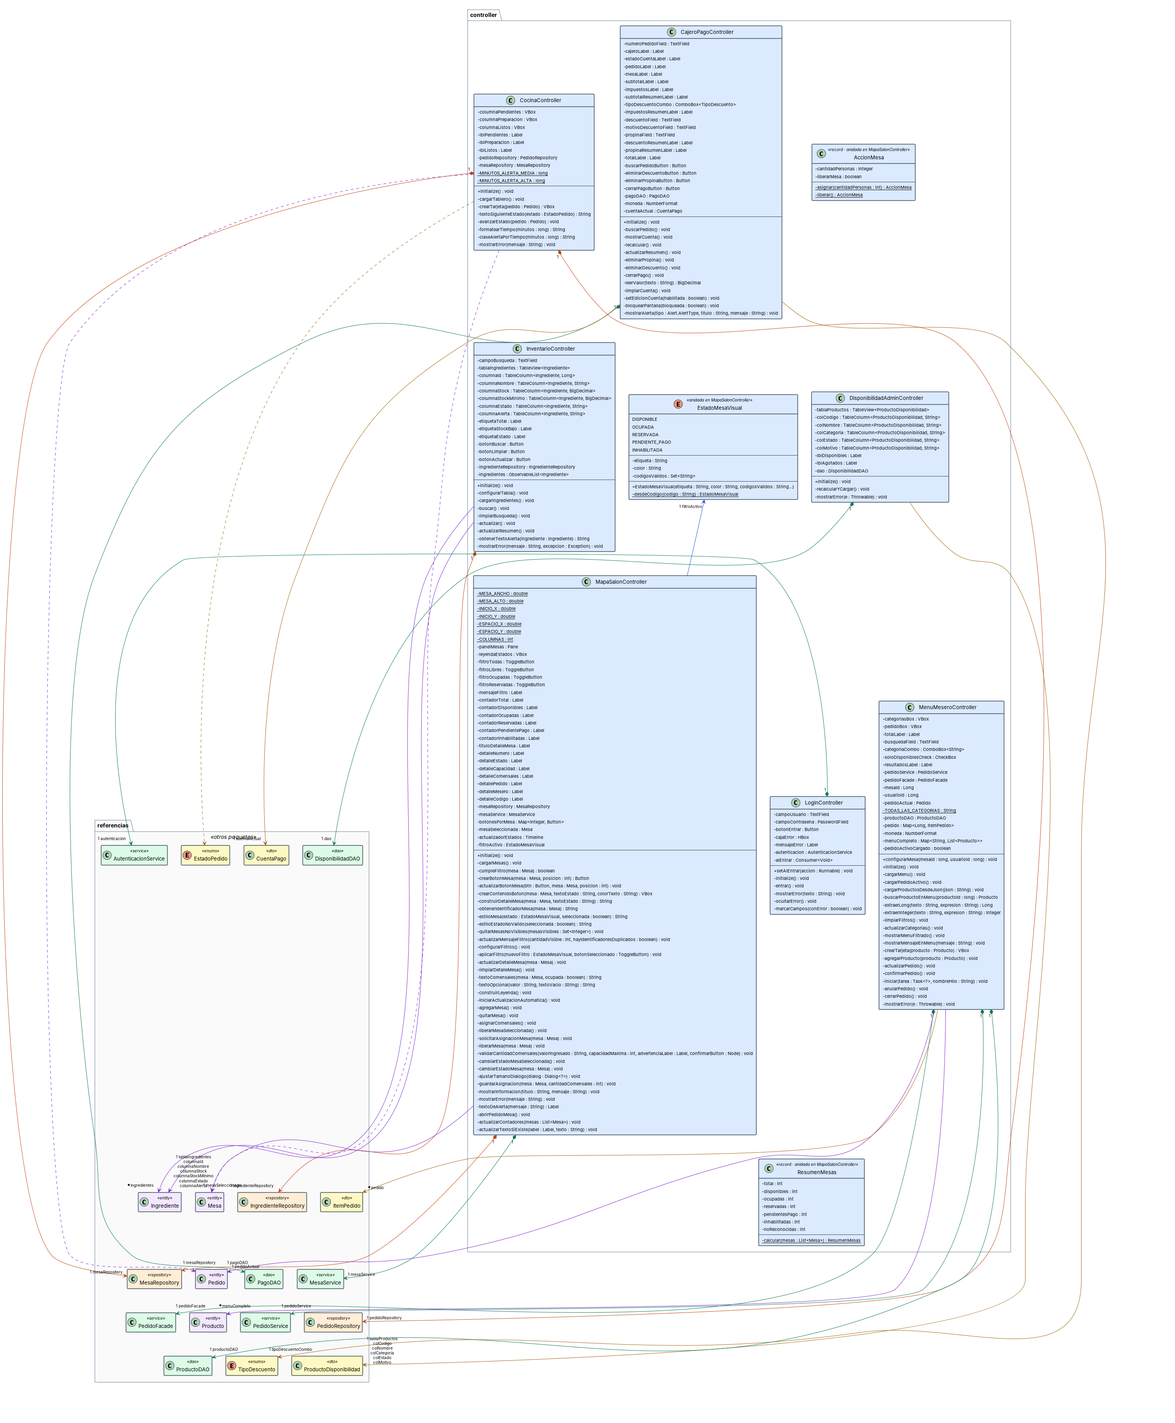
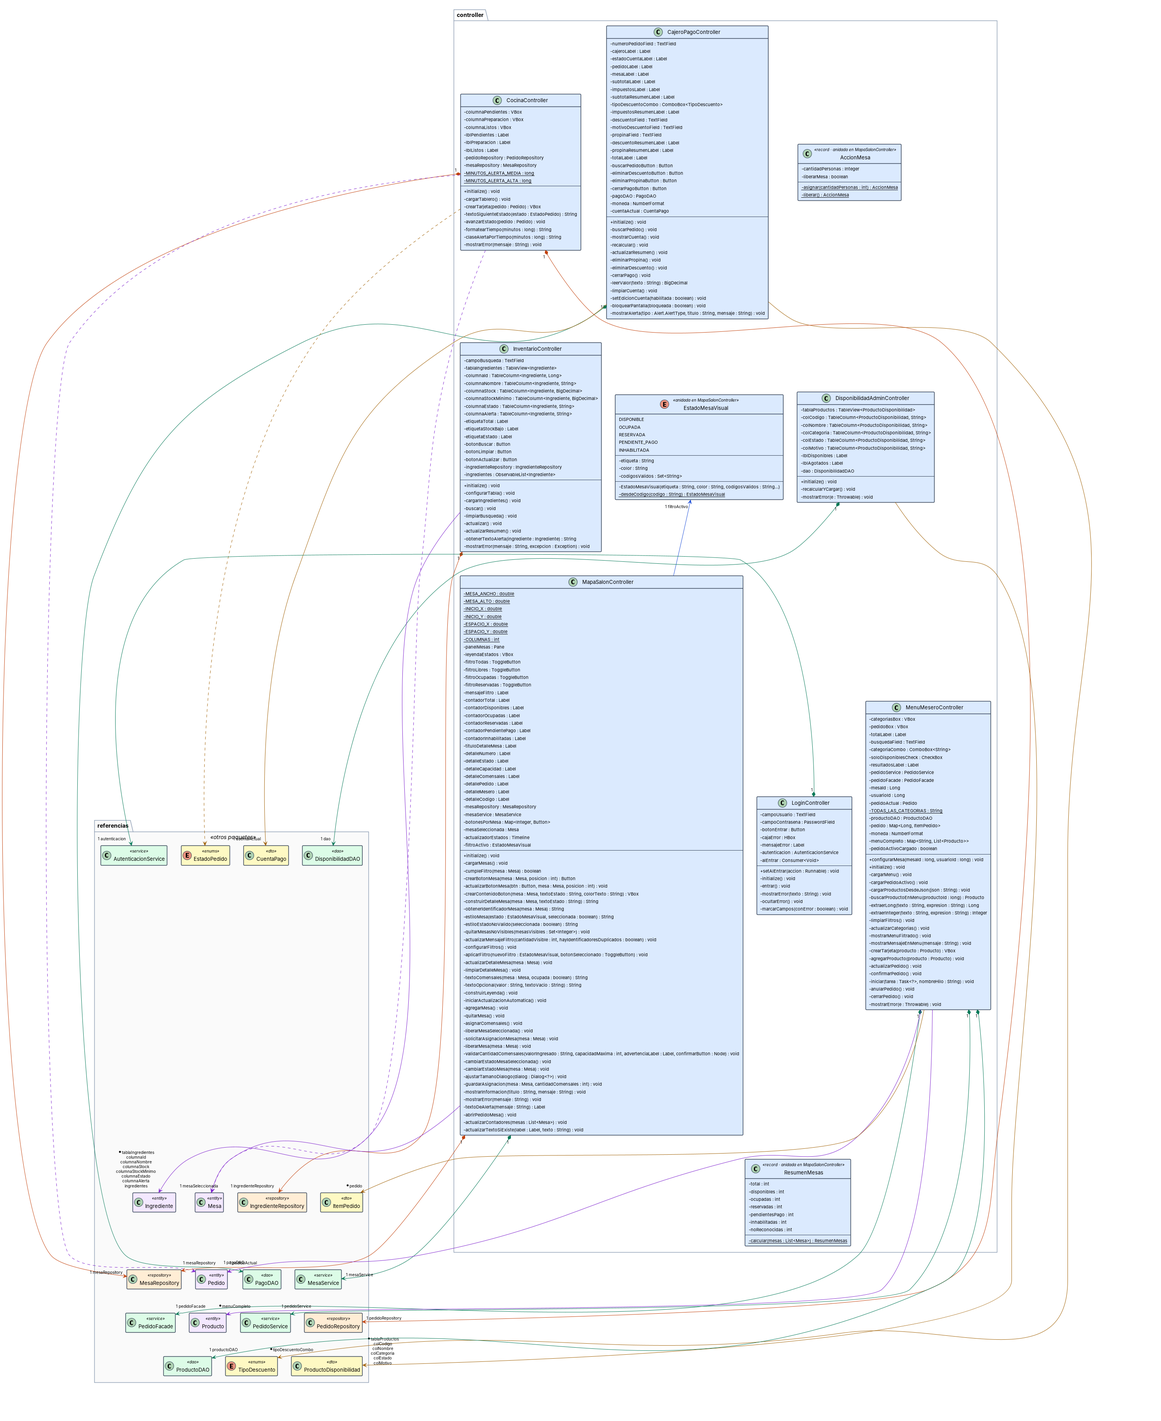
docs: corrige seis errores encontrados al revisar clases y componentes
Revision de los 15 diagramas de clases y los 8 de componentes contra el
codigo. Lo corregido, de mas a menos grave:

- Colision de nombre: existen entity.EstadoMesa y enums.EstadoMesa. Los
  generadores indexaban por nombre simple, asi que uno pisaba al otro: las
  flechas de EstadoMesaRepository y MesaService llegaban a la caja del enum
  cuando el codigo importa la entidad, y el enum quedaba dibujado sin
  ninguna linea en dos mapas. Ahora se resuelve por el import real.
- PagoDAO escribe en la tabla pedidos y se dibujaba como solo lectura. El
  extractor concatenaba las cadenas SQL y el "FOR UPDATE" de una consulta
  se comia el "UPDATE pedidos" de la siguiente. La tabla pedidos pasa de
  "escriben 1" a "escriben 2".
- DisponibilidadService y EntradaInventarioService ejecutan SQL propio
  saltandose la capa de datos, y no aparecian en el mapa componente-tabla
  porque solo se escaneaban repository y dao.
- La multiplicidad de los campos ComboBox<T>, TableView<T> y TableColumn<T,?>
  se dibujaba 1. Son contenedores: van *.
- El constructor de un enum sin modificador es privado (JLS 8.9.2), no
  package-private. Afecta a EstadoMesaVisual y TipoDescuento.
- El diagrama de artefactos contaba componentes y lo rotulaba ".java":
  controller tiene 8 archivos y uno esta vacio. Ademas el recuadro decia
  "src/main/java" dibujando solo los paquetes con componentes; ahora dice
  cuales deja fuera.

Los verificadores llevaban las mismas reglas equivocadas, asi que exigian el
[…]

diff --git a/docs/diagramas-fuente/herramientas/gen_componentes_puml.py b/docs/diagramas-fuente/herramientas/gen_componentes_puml.py
@@ -27,8 +27,10 @@ EXCL = {l.strip().rsplit('/', 1)[-1].replace('.java', '')
 PAQ_COMP = ('controller', 'service', 'dao', 'repository', 'ConexionBD',
             'session', 'util', '(raiz)')
 # Las capas son las mismas que en el diagrama de arquitectura. dao va en
-# acceso a datos, no en negocio: los tres DAO ejecutan SQL directamente y
-# ningun service lo hace.
+# acceso a datos, no en negocio: los tres DAO ejecutan SQL directamente.
+# Ojo: DisponibilidadService y EntradaInventarioService tambien ejecutan SQL
+# propio, saltandose la capa de datos. Siguen contando como negocio por su
+# paquete, pero aparecen en el mapa componente-tabla.
 # Mismas capas que el diagrama de arquitectura: ConexionBD es su propia
 # capa y session y util son apoyo transversal.
 SUB = {'controller': 'ui', '(raiz)': 'ui', 'service': 'negocio',
@@ -298,7 +300,7 @@ PROPIAS = sorted(t for t, v in quien.items() if len(v) == 1)
 L = [CAB]
 L.append('package "Acceso a datos · repository + dao" #FFEDD5 {')
 for n in sorted(COMPONENTES):
-    if POR[n]['paquete'] not in ('repository', 'dao'):
+    if POR[n]['paquete'] not in ('repository', 'dao', 'service'):
         continue
     d = sql.get(n, {})
     extra = []
@@ -311,7 +313,11 @@ for n in sorted(COMPONENTES):
     if not d:
         extra.append('sin SQL propio')
     L += [comp(n, extra)]
-nm = [n for n in sorted(COMPONENTES) if POR[n]['paquete'] in ('repository', 'dao')]
+# tambien los service con SQL propio: si no, el mapa componente-tabla
+# esconde quien escribe de verdad en productos e ingredientes
+nm = [n for n in sorted(COMPONENTES)
+      if POR[n]['paquete'] in ('repository', 'dao')
+      or (POR[n]['paquete'] == 'service' and n in sql)]
 COLS = 4
 for i in range(len(nm)):
     if i % COLS and i:
@@ -358,7 +364,9 @@ for n in sorted(requiere):
         L.append(f'{ali(n)} ..> I_ConexionBD : <<use>> '
                  f'{len(requiere[n]["ConexionBD"])}')
 # dependencias entre componentes de la propia capa de datos
-datos_comp = {n for n in COMPONENTES if POR[n]['paquete'] in ('repository', 'dao')}
+datos_comp = {n for n in COMPONENTES
+              if POR[n]['paquete'] in ('repository', 'dao')
+              or (POR[n]['paquete'] == 'service' and n in sql)}
 for o in sorted(datos_comp):
     for d, ops in sorted(requiere[o].items()):
         if d in datos_comp:
@@ -402,10 +410,23 @@ L = [CAB]
 porpaq = collections.defaultdict(list)
 for n in COMPONENTES:
     porpaq[POR[n]['paquete']].append(n)
-L.append('package "src/main/java" #F1F5F9 {')
+# el titulo decia src/main/java pero solo se dibujan los paquetes que
+# aportan componentes: entity, dto, enums, exceptions y database quedan
+# fuera, y conviene decirlo en vez de dar a entender que estan todos
+otros = sorted({os.path.basename(d) for d in glob.glob(REPO + "/src/main/java/*")
+                if os.path.isdir(d)} - set(porpaq))
+L.append('package "src/main/java · paquetes con componentes'
+         '\\n<size:9>no se dibujan ' + ', '.join(otros)
+         + '</size>" #F1F5F9 {' if otros else
+         'package "src/main/java" #F1F5F9 {')
 for p_ in sorted(porpaq):
     dir_ = '(raiz)' if p_ == '(raiz)' else p_ + '/'
-    L.append(f'  artifact "{dir_}\\n<size:9>{len(porpaq[p_])} .java</size>"'
+    # se cuentan los .java del directorio, no los componentes: controller
+    # tiene 8 archivos y uno de ellos (PagoController) esta vacio
+    d_real = (REPO + "/src/main/java") if p_ == "(raiz)" else f"{REPO}/src/main/java/{p_}"
+    njava = len(glob.glob(f'{d_real}/*.java')) if os.path.isdir(d_real) \
+        else len(porpaq[p_])
+    L.append(f'  artifact "{dir_}\\n<size:9>{njava} .java</size>"'
              f' as J_{ali(p_)} {COLOR[SUB[p_]]}')
 js = [f'J_{ali(p_)}' for p_ in sorted(porpaq)]
 for i_ in range(1, len(js)):

diff --git a/docs/diagramas-fuente/herramientas/gen_clases_completo.py b/docs/diagramas-fuente/herramientas/gen_clases_completo.py
@@ -13,7 +13,29 @@ DIR = BASE + '/puml_clases'
 os.makedirs(DIR, exist_ok=True)
 T = json.load(open(BASE + '/clases.json', encoding='utf-8'))
 R = json.load(open(BASE + '/relaciones.json', encoding='utf-8'))
-POR = {t['nombre']: t for t in T}
+# Dos tipos pueden compartir nombre simple (entity.EstadoMesa y
+# enums.EstadoMesa). Indexar por nombre a secas hace que uno pise al otro y
+# que las flechas lleguen a la caja equivocada. Se resuelve por evidencia:
+# gana el que algun archivo importa de verdad.
+import glob as _glob
+_por_nombre = collections.defaultdict(list)
+for t in T:
+    _por_nombre[t['nombre']].append(t)
+_SRC = REPO + '/src/main/java'
+_fuentes = ' '.join(open(r, encoding='utf-8').read()
+                    for r in _glob.glob(_SRC + '/**/*.java', recursive=True)
+                    if os.path.getsize(r) > 0)
+POR, AMBIGUOS = {}, {}
+for nombre, tipos in _por_nombre.items():
+    if len(tipos) == 1:
+        POR[nombre] = tipos[0]
+        continue
+    importados = [t for t in tipos
+                  if f"import {t['paquete']}.{nombre};" in _fuentes]
+    POR[nombre] = importados[0] if len(importados) == 1 else tipos[0]
+    AMBIGUOS[nombre] = {'elegido': POR[nombre]['paquete'],
+                        'otros': [t['paquete'] for t in tipos
+                                  if t is not POR[nombre]]}
 
 COLOR = {'entity': '#F3E8FF', 'controller': '#DBEAFE', 'repository': '#FFEDD5',
          'service': '#DCFCE7', 'dao': '#DCFCE7', 'dto': '#FEF9C3',
@@ -322,9 +344,20 @@ for archivo, paquetes, destinos, con_gen in MAPAS:
     L = [CAB, 'hide members', 'hide circle',
          'skinparam linetype polyline', 'skinparam nodesep 25',
          'skinparam ranksep 70']
+    # Las cajas se eligen por el alias que de verdad usan las flechas, no por
+    # nombre simple: si no, un nombre duplicado (entity.EstadoMesa y
+    # enums.EstadoMesa) dibuja las dos y una queda suelta sin ninguna linea.
+    alias_usados = set()
+    for a in asoc:
+        alias_usados |= {_alias(a['origen']), _alias(a['destino'], a['origen'])}
+    for d in deps:
+        alias_usados |= {_alias(d['origen']), _alias(d['destino'], d['origen'])}
+    for h, _p, _a in gens:
+        alias_usados.add(_alias(h))
     porpaq = collections.defaultdict(list)
     for t in T:
-        if t['nombre'] in tocadas:
+        if t['nombre'] in tocadas and \
+                f"{_id(t['paquete'])}_{t['nombre']}" in alias_usados:
             porpaq[t['paquete']].append(t)
     # los paquetes se apilan en el orden de las capas: si se dejan uno al lado
     # del otro el dibujo sale larguisimo y las lineas se superponen

diff --git a/docs/diagramas-fuente/herramientas/verificar_cajas.py b/docs/diagramas-fuente/herramientas/verificar_cajas.py
@@ -4,6 +4,7 @@ No cuenta miembros: reconstruye la caja que DEBERIA salir del archivo fuente
 y la compara con la dibujada, en orden, con visibilidad, modificadores,
 tipos de campo, tipos de retorno y tipos de cada parametro.
 """
+import collections
 import re, os, sys, glob, json, collections
 
 REPO, DIAG = sys.argv[1], sys.argv[2]
@@ -177,7 +178,11 @@ for t in T:
         cab = (con_vis or cands)[0].group(1)
         esp = ('+' if 'public' in cab else '-' if 'private' in cab
                else '#' if 'protected' in cab
-               else '+' if t['kind'] in ('interface', 'annotation') else '~')
+               else '+' if t['kind'] in ('interface', 'annotation')
+               # el constructor de un enum sin modificador es privado,
+               # no package-private (JLS 8.9.2)
+               else '-' if (t['kind'] == 'enum'
+                            and me['nombre'] == t['nombre']) else '~')
         if esp != me['vis']:
             mal.append(f"{t['nombre']}.{me['nombre']}(): dibujado {me['vis']}, "
                        f"en el codigo {esp}")
@@ -189,7 +194,15 @@ for x in mal[:12]:
 # 5. las cajas de referencia van vacias y con su paquete
 # ---------------------------------------------------------------------------
 print('\n=== 5. cajas de referencia ===')
-POR = {t['nombre']: t for t in T}
+# dos tipos pueden compartir nombre simple (entity.EstadoMesa y
+# enums.EstadoMesa): indexar por nombre a secas hace que uno pise al otro y
+# que este chequeo reclame el estereotipo del que no es
+_porn = collections.defaultdict(list)
+for t in T:
+    _porn[t['nombre']].append(t)
+POR, DUPES = {}, {n for n, v in _porn.items() if len(v) > 1}
+for n_, v_ in _porn.items():
+    POR[n_] = v_[0]
 mal = []
 for f in sorted(glob.glob(DIAG + '/puml_clases/0[1-7]_*.puml')):
     s = open(f, encoding='utf-8').read()
@@ -199,6 +212,10 @@ for f in sorted(glob.glob(DIAG + '/puml_clases/0[1-7]_*.puml')):
     for b in re.finditer(r'^\s*(?:class|interface|enum|annotation)\s+(\w+)\s+'
                          r'<<(\w+|\(raiz\))>>', bloque.group(1), re.M):
         n, paq = b.group(1), b.group(2)
+        if n in DUPES:
+            # con el nombre duplicado, vale cualquiera de los paquetes reales
+            if paq in {x['paquete'] for x in _porn[n]}:
+                continue
         if n in POR and POR[n]['paquete'] != paq:
             mal.append(f'{os.path.basename(f)}: {n} marcada <<{paq}>>, '
                        f'es de {POR[n]["paquete"]}')

diff --git a/docs/diagramas-fuente/herramientas/verificar.py b/docs/diagramas-fuente/herramientas/verificar.py
@@ -129,8 +129,14 @@ ok(not R['generalizacion'] and not R['realizacion'],
    'asi que no se dibuja ninguna herencia interna')
 
 print('\n=== 5. multiplicidad ===')
-COLEC = ('List', 'ArrayList', 'Set', 'HashSet', 'LinkedHashSet', 'Collection',
-         'Map', 'HashMap', 'LinkedHashMap', 'ObservableList')
+COLEC = ('List', 'ArrayList', 'LinkedList', 'Set', 'HashSet', 'LinkedHashSet',
+         'TreeSet', 'Collection', 'Iterable', 'Queue', 'Deque',
+         'Map', 'HashMap', 'LinkedHashMap', 'TreeMap',
+         'ObservableList', 'ObservableSet', 'ObservableMap',
+         # controles JavaFX parametrizados por el tipo de elemento: un
+         # ComboBox<T> o un TableView<T> contienen 0..* de T, no uno
+         'ComboBox', 'ChoiceBox', 'TableView', 'TableColumn',
+         'ListView', 'TreeView', 'TreeTableView')
 malm = []
 for a in R['asociacion']:
     t = POR[a['origen']]
@@ -417,10 +423,16 @@ ok(not mal, f'las capas coinciden con el diagrama de componentes ({len(mal)})')
 for x in mal[:6]:
     print('      ', x)
 
-# los dao van en acceso a datos porque ejecutan SQL y ningun service lo hace
+# los dao van en acceso a datos porque ejecutan SQL. Dos service tambien lo
+# hacen, saltandose esa capa: eso es un hallazgo del codigo, no un fallo del
+# diagrama, pero el conjunto tiene que seguir siendo exactamente ese
 sqlmap = json.load(open(BASE + '/llamadas.json', encoding='utf-8'))['sql']
-ok(all(POR[n]['paquete'] in ('dao', 'repository') for n in sqlmap),
-   f'solo repository y dao ejecutan SQL ({sorted({POR[n]["paquete"] for n in sqlmap})})')
+paq_sql = sorted({POR[n]['paquete'] for n in sqlmap})
+ok(paq_sql == ['dao', 'repository', 'service'],
+   f'ejecutan SQL exactamente {paq_sql}')
+serv_sql = sorted(n for n in sqlmap if POR[n]['paquete'] == 'service')
+ok(serv_sql == ['DisponibilidadService', 'EntradaInventarioService'],
+   f'los service que ejecutan SQL propio son {serv_sql}')
 
 # contenido de cada caja: las clases de ese paquete, todas y solo esas
 mal = []

diff --git a/docs/diagramas-fuente/herramientas/extraer_llamadas.py b/docs/diagramas-fuente/herramientas/extraer_llamadas.py
@@ -137,12 +137,19 @@ for ruta in sorted(glob.glob(SRC + '/**/*.java', recursive=True)):
 # ------------------------------------------------- SQL de cada repositorio --
 TABLAS = set(json.load(open(BASE + '/esquema.json', encoding='utf-8')))
 sql = {}
+# tambien los service: cuatro de ellos abren su propia conexion y ejecutan
+# SQL, asi que no basta con mirar repository y dao
 for t in T:
-    if t['paquete'] not in ('repository', 'dao') or t['anidada_en']:
+    if t['paquete'] not in ('repository', 'dao', 'service') or t['anidada_en']:
         continue
     texto = open(f"{SRC}/{t['archivo']}", encoding='utf-8').read()
+    texto = re.sub(r'/\*.*?\*/|//[^\n]*', '', texto, flags=re.S)
     cadenas = ' '.join(re.findall(r'"((?:\\.|[^"\\])*)"', texto)) + ' ' + \
               ' '.join(re.findall(r'"""(.*?)"""', texto, re.S))
+    # FOR UPDATE es una clausula de bloqueo, no una sentencia: si se deja, su
+    # UPDATE se come el nombre de tabla de la sentencia siguiente
+    cadenas = re.sub(r'\bFOR\s+UPDATE(\s+(?:NOWAIT|SKIP\s+LOCKED))?', ' ',
+                     cadenas, flags=re.I)
     usadas, escritas = set(), set()
     for m in re.finditer(r'\b(FROM|JOIN|INTO|UPDATE|DELETE\s+FROM)\s+([a-z_][\w]*)',
                          cadenas, re.I):

diff --git a/docs/diagramas-fuente/herramientas/extraer_clases.py b/docs/diagramas-fuente/herramientas/extraer_clases.py
@@ -30,13 +30,19 @@ def modificadores(n, src):
     return []
 
 
-def visibilidad(mods, kind=None):
+def visibilidad(mods, kind=None, constructor=False):
     for m in mods:
         if m in VIS:
             return VIS[m]
     # en una interfaz y en una anotacion, un miembro sin modificador es
     # publico por definicion del lenguaje, no package-private
-    return '+' if kind in ('interface', 'annotation') else '~'
+    if kind in ('interface', 'annotation'):
+        return '+'
+    # el constructor de un enum sin modificador es privado (JLS 8.9.2), no
+    # package-private: no se puede instanciar desde fuera
+    if constructor and kind == 'enum':
+        return '-'
+    return '~'
 
 
 def nombre_de(n, src):
@@ -96,7 +102,7 @@ def miembros(cuerpo, src, kind=None):
             mods = modificadores(h, src)
             metodos.append({'nombre': nombre_de(h, src), 'retorno': '',
                             'params': parametros(h, src),
-                            'vis': visibilidad(mods),
+                            'vis': visibilidad(mods, kind, constructor=True),
                             'static': False, 'abstract': False,
                             'constructor': True})
     return campos, metodos

diff --git a/docs/diagramas-fuente/herramientas/extraer_relaciones.py b/docs/diagramas-fuente/herramientas/extraer_relaciones.py
@@ -20,8 +20,17 @@ T = json.load(open(ENTRADA, encoding='utf-8'))
 NOMBRES = {t['nombre'] for t in T}
 POR_NOMBRE = {t['nombre']: t for t in T}
 
-COLECCIONES = ('List', 'ArrayList', 'Set', 'HashSet', 'LinkedHashSet', 'Collection',
-               'Map', 'HashMap', 'LinkedHashMap', 'Optional', 'ObservableList')
+# Contenedores: el campo guarda 0..* del tipo, no uno. Los controles de
+# JavaFX parametrizados por el tipo de elemento (ComboBox<T>, TableView<T>,
+# TableColumn<T,?>) tambien lo son: un ComboBox<TipoDescuento> no contiene un
+# TipoDescuento sino todos los que se le carguen.
+COLECCIONES = ('List', 'ArrayList', 'LinkedList', 'Set', 'HashSet',
+               'LinkedHashSet', 'TreeSet', 'Collection', 'Iterable',
+               'Queue', 'Deque',
+               'Map', 'HashMap', 'LinkedHashMap', 'TreeMap', 'Optional',
+               'ObservableList', 'ObservableSet', 'ObservableMap',
+               'ComboBox', 'ChoiceBox', 'TableView', 'TableColumn',
+               'ListView', 'TreeView', 'TreeTableView')
 
 
 def tipos_en(expr):

diff --git a/docs/diagramas-fuente/herramientas/verificar_lineas.py b/docs/diagramas-fuente/herramientas/verificar_lineas.py
@@ -11,8 +11,14 @@ NOMBRES = set(POR)
 DIBUJO = ''.join(open(f, encoding='utf-8').read()
                  for f in glob.glob(DIAG + '/puml_clases/*_rel_*.puml'))
 
-COLEC = ('List', 'ArrayList', 'Set', 'HashSet', 'LinkedHashSet', 'Collection',
-         'Map', 'HashMap', 'LinkedHashMap', 'ObservableList', 'Queue', 'Deque')
+COLEC = ('List', 'ArrayList', 'LinkedList', 'Set', 'HashSet', 'LinkedHashSet',
+         'TreeSet', 'Collection', 'Iterable', 'Queue', 'Deque',
+         'Map', 'HashMap', 'LinkedHashMap', 'TreeMap',
+         'ObservableList', 'ObservableSet', 'ObservableMap',
+         # controles JavaFX parametrizados por el tipo de elemento: un
+         # ComboBox<T> o un TableView<T> contienen 0..* de T, no uno
+         'ComboBox', 'ChoiceBox', 'TableView', 'TableColumn',
+         'ListView', 'TreeView', 'TreeTableView')
 fallos = []
 
 

diff --git a/docs/diagramas-fuente/herramientas/verificar_componentes.py b/docs/diagramas-fuente/herramientas/verificar_componentes.py
@@ -180,7 +180,7 @@ PERM = set('''startuml enduml allowmixing skinparam backgroundcolor shadowing
  excluye piezas usa todo sistema para lea consumidores agrupados
  dice cuantos son pantalla aparecen llaman otra compartidas
  pertenecen ninguna casi todo pocos triangulo rojo ejecutarse
- incluye fuera llega codigo ese sus
+ incluye fuera llega codigo ese sus paquetes dibujan
  fuera subsistema archivos raiz modulos nombre true false'''.split())
 # la leyenda es explicacion en castellano y los alias "as X" son nombres
 # internos que yo elijo: lo que tiene que salir del repositorio es el texto

diff --git a/docs/diagramaClases.md b/docs/diagramaClases.md
@@ -40,7 +40,7 @@ Documentan el modelo de clases del sistema: 98 tipos, 371 atributos y 663 métod
 
 **Por qué está.** Cada pantalla de la aplicación es un controlador, así que este diagrama es el inventario de lo que el usuario puede hacer. Sirve para saber qué funcionalidad está construida y cuál sigue sin interfaz.
 
-**Qué muestra.** Son 29 tipos y 13 relaciones. Hay ocho pantallas: acceso, mapa de salón, carta del mesero, cocina, caja, inventario y disponibilidad. El mapa de salón es con diferencia el controlador más grande, y declara dentro sus propias clases auxiliares (AccionMesa, ResumenMesas) y el enum EstadoMesaVisual, que traduce los códigos de la base a colores y etiquetas de pantalla.
+**Qué muestra.** Son 29 tipos y 12 relaciones. Hay ocho pantallas: acceso, mapa de salón, carta del mesero, cocina, caja, inventario y disponibilidad. El mapa de salón es con diferencia el controlador más grande, y declara dentro sus propias clases auxiliares (AccionMesa, ResumenMesas) y el enum EstadoMesaVisual, que traduce los códigos de la base a colores y etiquetas de pantalla.
 
 ---
 
@@ -90,7 +90,7 @@ Documentan el modelo de clases del sistema: 98 tipos, 371 atributos y 663 métod
 
 **Por qué está.** Complementa al anterior con la otra pregunta: además de a quién llama, qué datos del dominio toca cada pantalla directamente.
 
-**Qué muestra.** Son 19 tipos y 17 relaciones. Los controladores construyen y modifican entidades por su cuenta, no solo DTO, y usan los enums del dominio para decidir qué pintar. Es lo que explica que la lógica de estado del pedido esté repartida entre el servicio y la pantalla de cocina.
+**Qué muestra.** Son 19 tipos y 16 relaciones. Los controladores construyen y modifican entidades por su cuenta, no solo DTO, y usan los enums del dominio para decidir qué pintar. Es lo que explica que la lógica de estado del pedido esté repartida entre el servicio y la pantalla de cocina.
 
 ---
 
@@ -110,7 +110,7 @@ Documentan el modelo de clases del sistema: 98 tipos, 371 atributos y 663 métod
 
 **Por qué está.** Permite saber quién es responsable de cada entidad: si dos servicios escriben la misma, hay una regla de negocio repartida en dos sitios.
 
-**Qué muestra.** Son 45 tipos. Muestra con qué entidades y con qué enumeraciones trabaja cada servicio. EstadoPedido y EstadoMesa aparecen en varios, que es la razón por la que las transiciones de estado se documentan en su propio diagrama.
+**Qué muestra.** Son 44 tipos. Muestra con qué entidades y con qué enumeraciones trabaja cada servicio. EstadoPedido y EstadoMesa aparecen en varios, que es la razón por la que las transiciones de estado se documentan en su propio diagrama.
 
 ---
 
@@ -130,7 +130,7 @@ Documentan el modelo de clases del sistema: 98 tipos, 371 atributos y 663 métod
 
 **Por qué está.** Sin ORM, la correspondencia entre clase y tabla no está declarada en ninguna anotación: hay que deducirla del SQL. Este diagrama la deja escrita, y es lo que permite rastrear quién toca cada dato.
 
-**Qué muestra.** Son 48 tipos y 27 relaciones. La mayoría de repositorios mapean una entidad cada uno, pero algunos leen varias para componer un resultado. Las tres relaciones de herencia que aparecen son las de las interfaces de Spring que no compilan.
+**Qué muestra.** Son 47 tipos y 27 relaciones. La mayoría de repositorios mapean una entidad cada uno, pero algunos leen varias para componer un resultado. Las tres relaciones de herencia que aparecen son las de las interfaces de Spring que no compilan.
 
 ---
 

diff --git a/docs/diagramaComponentes.md b/docs/diagramaComponentes.md
@@ -40,7 +40,7 @@ Documentan en qué piezas sustituibles está dividido el sistema y cómo depende
 
 **Por qué está.** Sin ORM esta correspondencia solo existe dentro de las cadenas de SQL. Hacerla explícita es lo que permite saber el impacto de cambiar una tabla antes de cambiarla.
 
-**Qué muestra.** Son 27 componentes y 16 tablas, con 34 conexiones, y cada flecha sale de una consulta real. Los tres DAO aparecen aquí junto a los repositorios porque hacen lo mismo: ejecutar SQL. Las tablas que solo toca un componente son las de bajo riesgo; las compartidas van en el diagrama siguiente.
+**Qué muestra.** Son 39 componentes y 16 tablas, con 36 conexiones, y cada flecha sale de una consulta real. Los tres DAO aparecen aquí junto a los repositorios porque hacen lo mismo: ejecutar SQL. Las tablas que solo toca un componente son las de bajo riesgo; las compartidas van en el diagrama siguiente.
 
 ---
 
@@ -50,7 +50,7 @@ Documentan en qué piezas sustituibles está dividido el sistema y cómo depende
 
 **Por qué está.** Una tabla escrita desde varios sitios es donde aparecen las inconsistencias, porque ningún componente ve lo que hacen los otros. Esta vista las aísla para poder vigilarlas.
 
-**Qué muestra.** Son 11 tablas compartidas con 30 conexiones. El caso más expuesto es movimientos_inventario, escrita desde tres repositorios distintos. También lo están pedidos y mesas, que son justamente las dos entidades cuyos estados documentamos aparte.
+**Qué muestra.** Son 11 tablas compartidas con 33 conexiones. El caso más expuesto es movimientos_inventario, escrita desde tres repositorios distintos. También lo están pedidos y mesas, que son justamente las dos entidades cuyos estados documentamos aparte.
 
 ---
 
